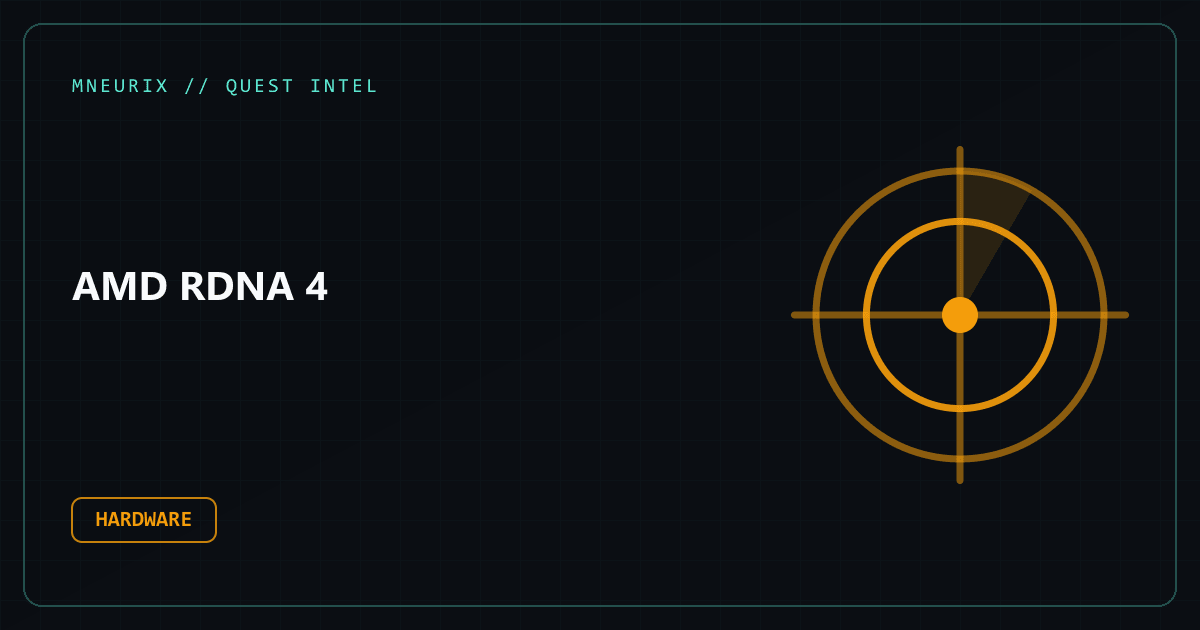
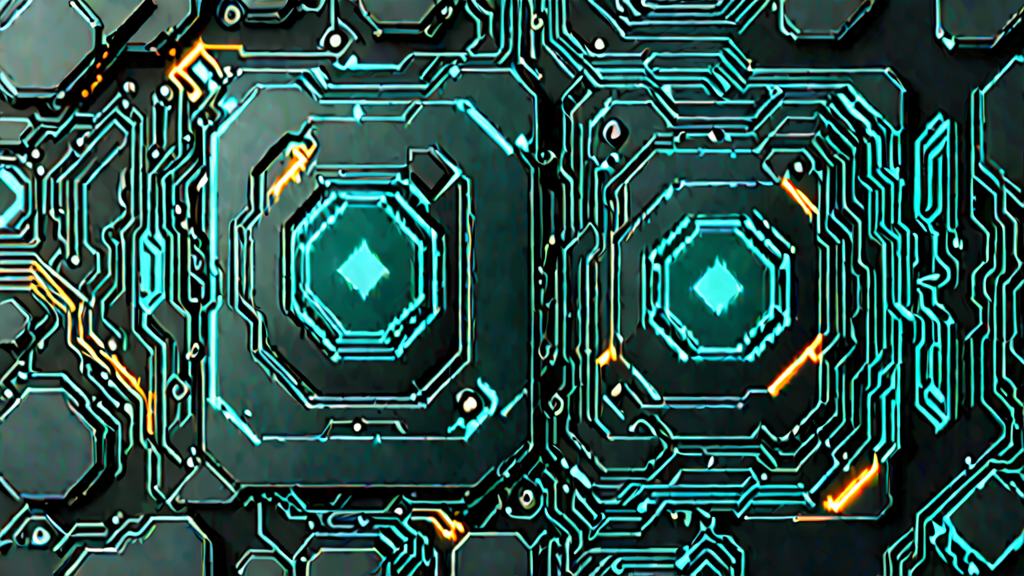
feat(covers): upgrade 3 branded covers to AI art; fix ComfyUI checkpoint
thumbnails.py: the AI-thumbnail workflow hardcoded sd_xl_base_1.0.safetensors,
which is absent from this ComfyUI instance (only sd_xl_turbo_1.0 is loaded) —
every /prompt call 400'd and silently fell through to branded covers. Switched
to sd_xl_turbo_1.0 with Turbo-appropriate sampling (8 steps, cfg 1.5, euler,
normal) so the AI tier actually fires for future runs too.

Regenerated the 3 branded-fallback covers via the AI tier + kimi-k3 vision QA
gate (all passed >=60):
- stronghold-rts.png        (~15KB branded -> ~1.1MB AI)
- amd-rdna-4-hardware.png   (~15KB branded -> ~1.1MB AI)
- intel-arrow-lake-hardware (~16KB branded -> ~1.1MB AI)

AoE IV already had its official Wikipedia boxart. Build green; audit clean.

diff --git a/pipeline/thumbnails.py b/pipeline/thumbnails.py
@@ -291,15 +291,18 @@ def generate_ai_thumbnail(
         f"no text, no watermark, high detail, cinematic"
     )
     # Minimal ComfyUI txt2img workflow (API format). Generous try/except = fail-closed.
+    # Uses SDXL Turbo (sd_xl_turbo_1.0) with Turbo-appropriate sampling: few steps,
+    # low CFG, euler. The prior sd_xl_base_1.0 checkpoint is not present in this
+    # ComfyUI instance, which caused /prompt 400s and silent branded fallbacks.
     workflow = {
         "3": {
             "class_type": "KSampler",
             "inputs": {
                 "seed": abs(hash(prompt)) % (10**9),
-                "steps": 28,
-                "cfg": 7.0,
-                "sampler_name": "dpmpp_2m",
-                "scheduler": "karras",
+                "steps": 8,
+                "cfg": 1.5,
+                "sampler_name": "euler",
+                "scheduler": "normal",
                 "denoise": 1.0,
                 "model": ["4", 0],
                 "positive": ["6", 0],
@@ -309,7 +312,7 @@ def generate_ai_thumbnail(
         },
         "4": {
             "class_type": "CheckpointLoaderSimple",
-            "inputs": {"ckpt_name": "sd_xl_base_1.0.safetensors"},
+            "inputs": {"ckpt_name": "sd_xl_turbo_1.0.safetensors"},
         },
         "5": {
             "class_type": "EmptyLatentImage",
